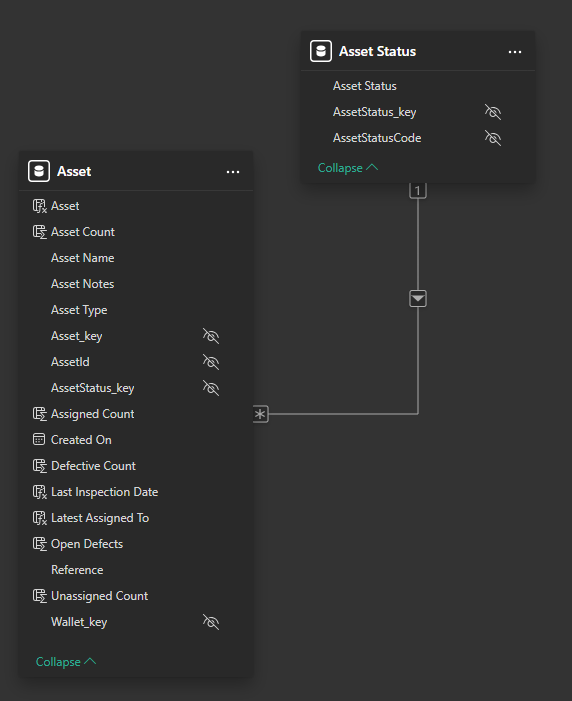
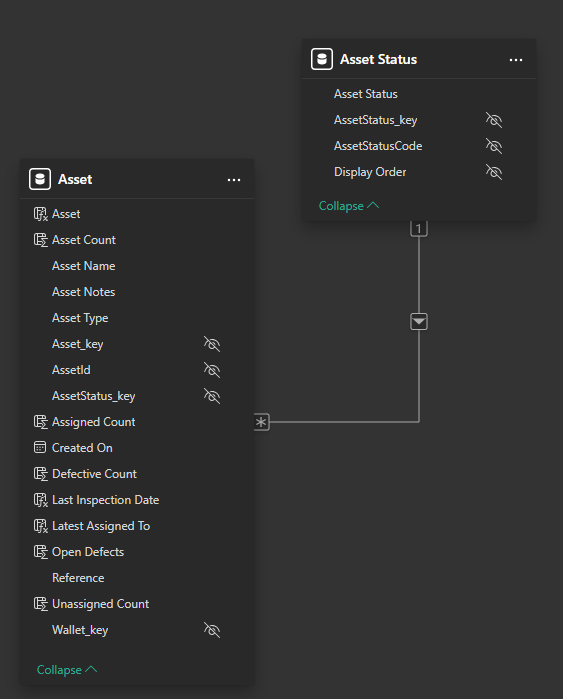
Add new asset status codes and enhance AssetStatus table with DisplayOrder column. Update nuget packages.

diff --git a/CHANGELOG.md b/CHANGELOG.md
@@ -4,18 +4,19 @@ All notable changes to this project will be documented in this file.
 
 The format loosely follows Keep a Changelog principles (dates in YYYY-MM-DD). Version numbers align with assembly versions unless otherwise noted.
 
-## [4.4.0] - Unreleased
+## [4.4.1] - 2026-01-20
 
-### Added (4.4.0)
+### Added (4.4.1)
 
 - Permits: add support for the new workflow component types.
 - PPE: add support for the new PPE custom fields (properties).
 - PPE: PPE Group's are now captured against PPE Types.
 
-### Changed (4.4.0)
+### Changed (4.4.1)
 
 - Actions: add the email address for the person an action is assigned to.
 - Assets: add support for the new shared custom properties (shared across all asset types).
+- Assets: add new asset status codes
 - Permits: support the new permit `Extended` status.
 
 ## [4.3.0] - 2025-12-09

diff --git a/ReferenceData.md b/ReferenceData.md
@@ -138,6 +138,10 @@ Note: The actual `ResponseText` values are defined per checklist and may vary.
 | 1 | Out of Service |
 | 2 | Decommissioned |
 | 3 | Deleted |
+| 4 | Ordered |
+| 5 | Off-Hired |
+| 6 | Lost / Write-Off |
+| 7 | Disposed |
 
 | AssignmentType |
 | --- |